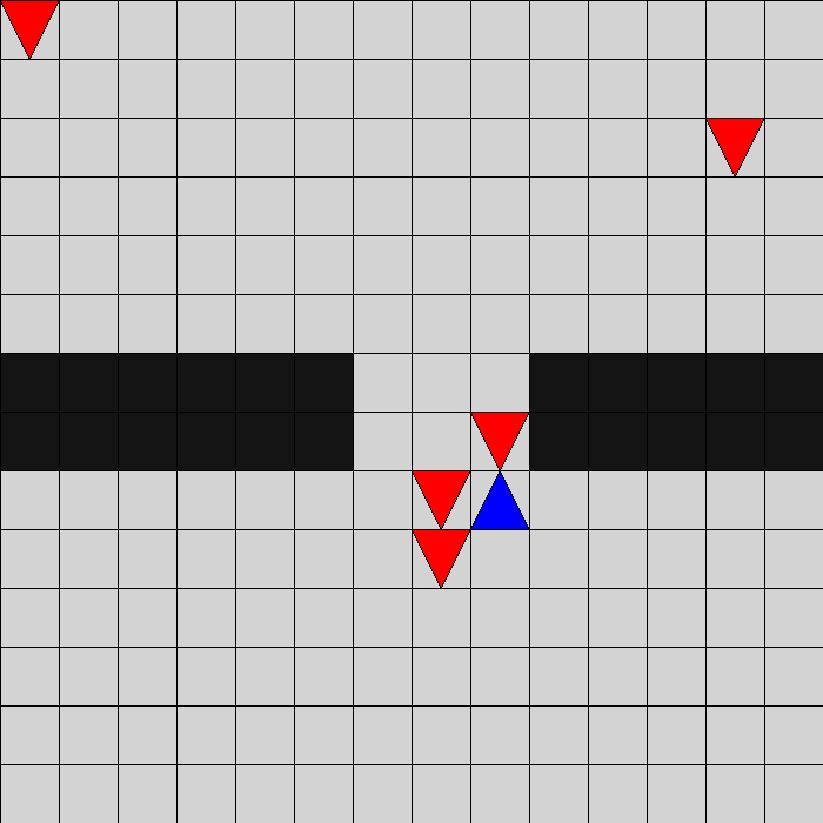
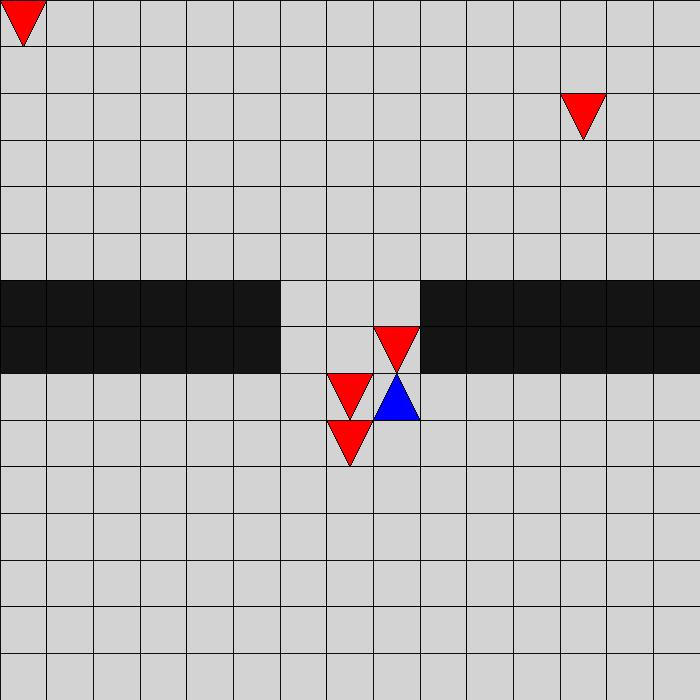
Tasojen kehittelyä ja bugifixauksia

diff --git a/Code/PetWorld/gui.py b/Code/PetWorld/gui.py
@@ -632,15 +632,13 @@ class GUI(QtWidgets.QMainWindow):
 
     def save_screenshot(self, filename):
         screenshot_file = os.path.join("savedata/", os.path.splitext(filename)[0] + ".jpg")
-        screen_resolution = QtWidgets.QApplication.primaryScreen().geometry()
         scene_rect = self.scene.sceneRect()
         pixmap = QtGui.QPixmap(scene_rect.size().toSize())
         pixmap.fill(QtCore.Qt.GlobalColor.white)
         painter = QtGui.QPainter(pixmap)
+        self.scene.setSceneRect(0, 0, self.world.width * self.square_size, self.world.height * self.square_size)
         self.scene.render(painter)
         painter.end()
-        pixmap = pixmap.scaled(screen_resolution.width(), screen_resolution.height(),
-                               QtCore.Qt.AspectRatioMode.KeepAspectRatio)
         pixmap.save(screenshot_file, "JPG")
 
     def save(self):

diff --git a/Code/PetWorld/main.py b/Code/PetWorld/main.py
@@ -17,7 +17,7 @@ def main():
     Reads a savefile and creates a PetWorld, adds pets and launches the Graphical User Interface.
     """
     name = ""
-    filename = "level_1.ptwrld"
+    filename = "level_3.ptwrld"
     # Open the savegame
     with open(f'savedata/{filename}', 'r') as file:
         # Read the lines from the file
